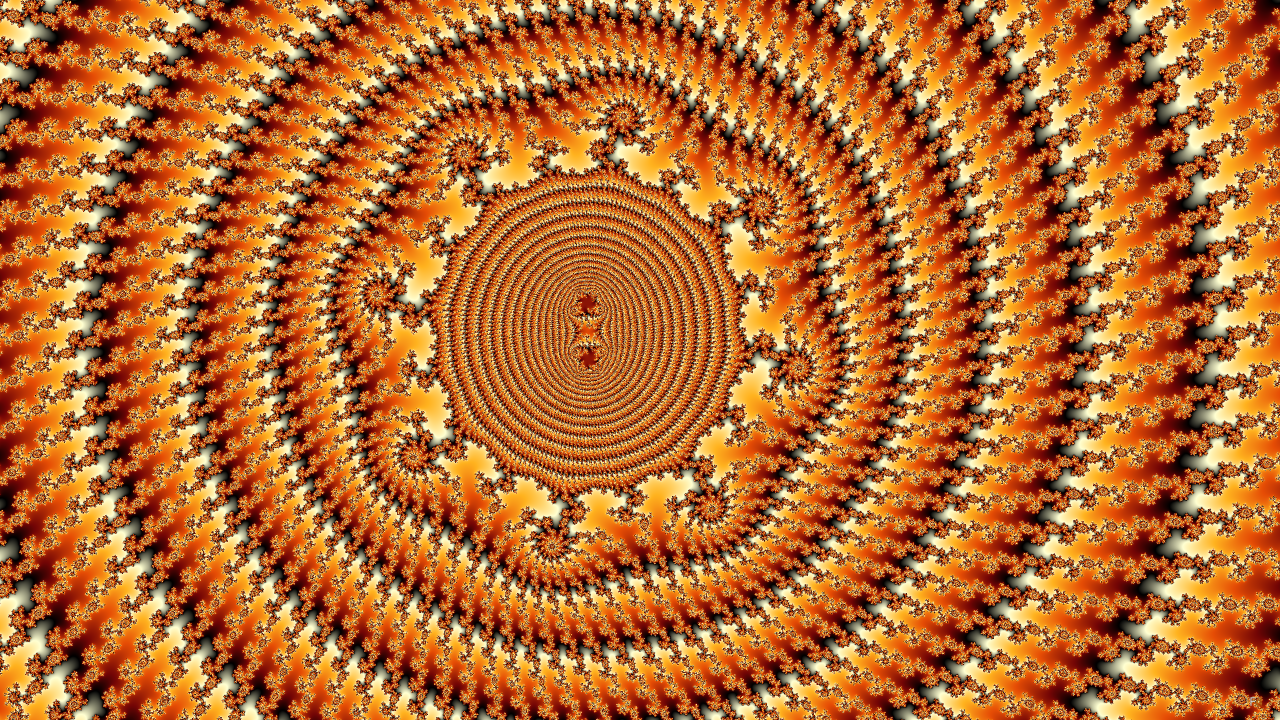
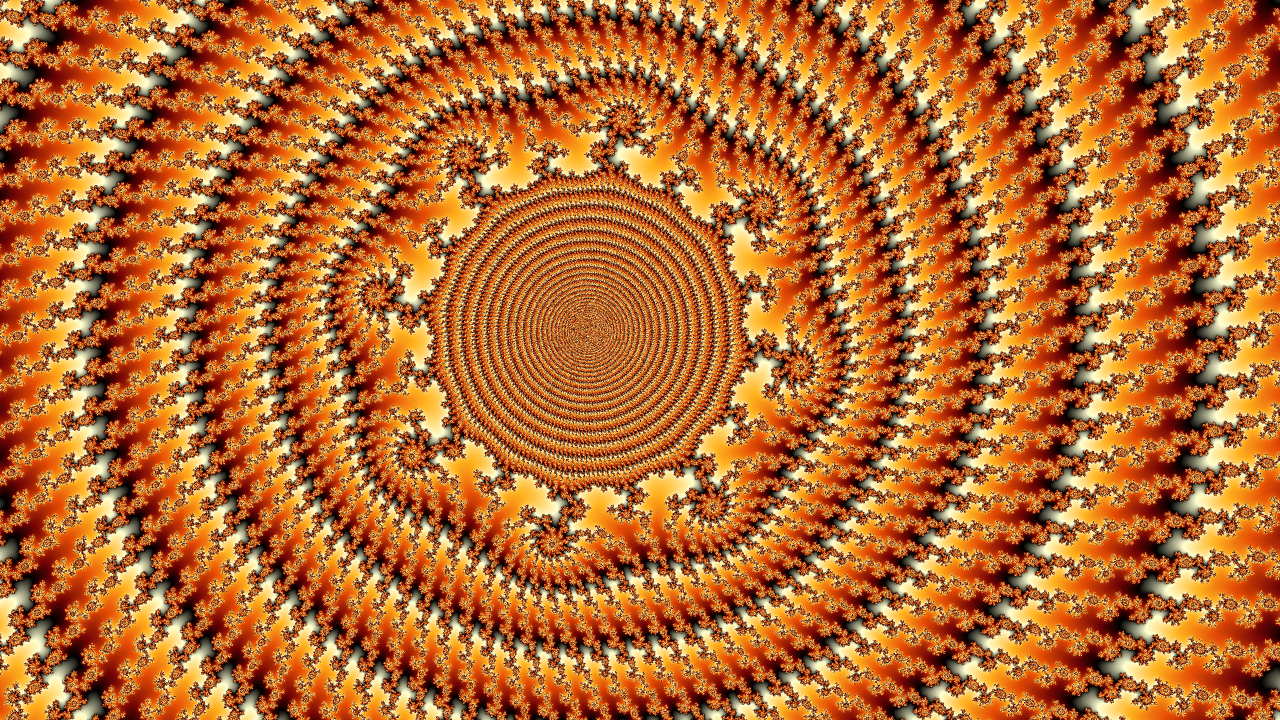
corpus: regenerate all 20 (v0.2.18), fix deep-view aliasing, add --check regression gate
Regenerated the full corpus with v0.2.18 and reviewed every location against its
Fraktaler-3 reference. All 20 match structurally. The v0.2.18 BLA-landing rebase
sharpened the deep-center detail of 11/12/13 (spiral/minibrot cores); 17 locations
are pixel-identical to before.

Deep-view aliasing fix: the deep dendrite/minibrot views (13, 16, 17, 18, 19, 20)
were coloring their smooth exterior field with the fixed palette cycle, which aliases
the correct-but-large escape values into speckle/moire (the same artifact 14/15 had).
Added normalize=true to those 6 and regenerated -> clean smooth fields matching F3.
The spiral views (09-12) have slowly-varying exteriors that don't alias, so they keep
the standard cycle.

New regression gate: `generate_corpus.py --check [--only <slugs>]` re-renders each
location to a temp file and compares it pixel-for-pixel against the committed
(F3-confirmed) renders. Renders are deterministic (verified: re-render = maxD 0), so
an unchanged renderer prints "20/20 MATCH"; any CHANGED location must be eyeballed vs
F3 before re-blessing. Exits non-zero on change; never touches the committed renders.
Intentionally not in the fast --selftest (a 20-location re-render takes minutes).

- generate_corpus.py: check_corpus() + render_location(out_png=...) + --check/--only;
  ASCII-safe report (Windows cp1252). Catalog intro coloring note generalized to 13-20.
- locations.toml: normalize=true on 13,16-20; notes updated; 14's stale "1xSS /
[…]

diff --git a/validation/corpus/catalog.html b/validation/corpus/catalog.html
@@ -32,19 +32,21 @@ former 1e30&times; gap (location 07, once a too-coarse 34-digit seahorse placeho
 different sub-structure) is now a genuine cross-app match, re-imported from a user Fraktaler-3 save with a
 43-digit center. Locations 07 and 11&ndash;20 are user-saved Fraktaler-3 finds (7.5e29&times; to
 1.2e1008&times;), imported from their .exr headers with center, zoom, and iteration count taken verbatim.
-<strong>Coloring note for 14 (1.2e148&times;) and 15 (3.7e163&times;):</strong> these long rendered as
-speckle and were mis-diagnosed as glitches, then a perturbation bug &mdash; both wrong. The escape
-VALUES are correct (a faithful CPU transcription of the mode-2 shader kernel reproduces them exactly);
-the problem is that their smooth-iter counts are huge (~3e5&ndash;1.6e6) and vary steeply, so the fixed
-palette cycle (0.27) aliases a correct field into speckle. Their renders use <em>auto-normalized</em>
-coloring (the frame's escape range mapped to the palette) and then match F3 arm-for-arm. The general
-fix &mdash; an adaptive-cycle coloring mode for extreme depth &mdash; is in TODO.md.
-<strong>15 also needed a rendering fix (v0.2.18):</strong> its right-side dendrites escape at
+<strong>Coloring note for the deep dendrite / minibrot views (13, 14, 15, 16&ndash;20):</strong> at these
+depths the smooth-iter counts are huge (~3e5&ndash;1.6e6+) and vary steeply pixel-to-pixel, so the fixed
+palette cycle (0.27) aliases a correct escape field into speckle (long mis-diagnosed as glitches, then a
+perturbation bug &mdash; both wrong; a faithful CPU transcription of the mode-2 shader kernel reproduces
+the escape VALUES exactly). These renders use <em>auto-normalized</em> coloring (<code>--normalize</code>:
+the frame's escape range mapped to the palette), which colours the smooth exterior cleanly and matches F3
+arm-for-arm. The spiral views (09&ndash;12) have slowly-varying exteriors that don't alias, so they keep
+the standard cycle. The general fix &mdash; an adaptive-cycle coloring mode for the live view &mdash; is in
+TODO.md. <strong>15 also needed a rendering fix (v0.2.18):</strong> its right-side dendrites escape at
 928k&ndash;1.6M &mdash; <em>past</em> the reference orbit (~918k) &mdash; so they must rebase at the
 reference&rsquo;s near-zero orbit dips. The GPU&rsquo;s BLA-skip path was skipping those dips without a
 rebase check (it assumed &delta;z stays small in the BLA regime, which fails where |Z|&asymp;0),
 marching the deep pixels to the reference end and capping them at ~919k so the dendrites vanished. A
-rebase check at the BLA landing restored the full range; goldens stayed byte-identical.</p>
+rebase check at the BLA landing restored the full range (this also sharpened the deep-centre detail of
+11&ndash;13); goldens stayed byte-identical.</p>
 <p><strong>Reading the comparison:</strong> palettes and smooth-coloring curves differ between the apps by
 design &mdash; compare <em>structure</em> (feature placement, spiral arm counts, escape-boundary shape,
 minibrot positions), not colors. Framing note: Fractadyne&rsquo;s magnification is referenced to a
@@ -343,7 +345,7 @@ Iterations: 600000</pre>
 
 <section class="card" id="13-deep-3.7e141">
   <h2>Extreme depth 3.69e141x <span class="zoom">3.690308e141&times;</span></h2>
-  <p class="note">User-saved Fraktaler-3 location (me141.exr); 155-digit center.</p>
+  <p class="note">User-saved Fraktaler-3 location (me141.exr); 155-digit center. Auto-normalized coloring (--normalize): the deep minibrot/dendrite field aliases the fixed palette cycle into speckle, so the escape range is mapped to the palette (see the catalog intro). Renders the central minibrot on a smooth exterior matching F3; the minibrot's deep detail sharpened in v0.2.18 (BLA-landing rebase).</p>
   <div class="pair">
     <figure>
       <img src="renders/13-deep-3.7e141-fractadyne.png" alt="Fractadyne render">
@@ -372,7 +374,7 @@ Iterations: 600000</pre>
 
 <section class="card" id="14-deep-1.2e148">
   <h2>Extreme depth 1.17e148x <span class="zoom">1.166773e148&times;</span></h2>
-  <p class="note">User-saved Fraktaler-3 location (me148.exr); 161-digit center. Escape times measured 304k-582k (CPU perturbation probe), so 800k covers the view (rendered at 1xSS: the ~0.5M-iteration escape band makes 2xSS a multi-hour render); the .exr's saved 6,000,000 was an exploration setting. This location exposed the sub-f32 reference-orbit dip bug (fixed in v0.2.6): its dive path passes within ~1e-71 of zero every 4383 iterations, and the flushed samples re-glued every pixel to the reference past ~1e142x. Renders CORRECTLY and matches F3 arm-for-arm (spiral-dendrite clusters). The earlier 'speckle' was NOT a render bug -- the escape VALUES are correct (verified 2026-07-12: GPU == a faithful CPU df32/df64 Fe transcription, tests/probe_fe.rs), but they are huge (~3e5-8e5) and vary steeply at this dense dendrite field, so the fixed palette cycle (0.27) ALIASED them into speckle. This render maps the frame's escape range to the palette (auto-normalized coloring) -- the correct structure emerges. Broader lesson: the app's fixed-cycle coloring aliases at extreme depth; auto-normalized coloring is the general fix (see TODO).</p>
+  <p class="note">User-saved Fraktaler-3 location (me148.exr); 161-digit center. Escape times measured 304k-582k (CPU perturbation probe), so 800k covers the view (rendered at 2xSS like the rest of the corpus, ~26s via the --normalize tiled path); the .exr's saved 6,000,000 was an exploration setting. This location exposed the sub-f32 reference-orbit dip bug (fixed in v0.2.6): its dive path passes within ~1e-71 of zero every 4383 iterations, and the flushed samples re-glued every pixel to the reference past ~1e142x. Renders CORRECTLY and matches F3 arm-for-arm (spiral-dendrite clusters). The earlier 'speckle' was NOT a render bug -- the escape VALUES are correct (verified 2026-07-12: GPU == a faithful CPU df32/df64 Fe transcription, tests/probe_fe.rs), but they are huge (~3e5-8e5) and vary steeply at this dense dendrite field, so the fixed palette cycle (0.27) ALIASED them into speckle. This render maps the frame's escape range to the palette (auto-normalized coloring) -- the correct structure emerges. Broader lesson: the app's fixed-cycle coloring aliases at extreme depth; auto-normalized coloring is the general fix (see TODO).</p>
   <div class="pair">
     <figure>
       <img src="renders/14-deep-1.2e148-fractadyne.png" alt="Fractadyne render">
@@ -430,7 +432,7 @@ Iterations: 1600000</pre>
 
 <section class="card" id="16-deep-2.1e250">
   <h2>Extreme depth 2.15e250x <span class="zoom">2.147911e250&times;</span></h2>
-  <p class="note">User-saved Fraktaler-3 location (me250.exr); 262-digit center.</p>
+  <p class="note">User-saved Fraktaler-3 location (me250.exr); 262-digit center. Auto-normalized coloring (--normalize): at this depth the smooth-iter counts are ~1e6 and the fixed palette cycle aliases the correct escape field into speckle, so the frame's escape range is mapped to the palette instead (see the catalog intro). Renders the dendrite structure on a clean field, matching F3 arm-for-arm.</p>
   <div class="pair">
     <figure>
       <img src="renders/16-deep-2.1e250-fractadyne.png" alt="Fractadyne render">
@@ -459,7 +461,7 @@ Iterations: 600008</pre>
 
 <section class="card" id="17-deep-4.2e275">
   <h2>Extreme depth 4.15e275x <span class="zoom">4.154612e275&times;</span></h2>
-  <p class="note">User-saved Fraktaler-3 location (me275.exr); 287-digit center.</p>
+  <p class="note">User-saved Fraktaler-3 location (me275.exr); 287-digit center. Auto-normalized coloring (--normalize): at this depth the smooth-iter counts are ~1e6 and the fixed palette cycle aliases the correct escape field into speckle, so the frame's escape range is mapped to the palette instead (see the catalog intro). Renders the dendrite structure on a clean field, matching F3 arm-for-arm.</p>
   <div class="pair">
     <figure>
       <img src="renders/17-deep-4.2e275-fractadyne.png" alt="Fractadyne render">
@@ -517,7 +519,7 @@ Iterations: 150000</pre>
 
 <section class="card" id="18-deep-4.1e508">
   <h2>Extreme depth 4.13e508x <span class="zoom">4.128130e508&times;</span></h2>
-  <p class="note">User-saved Fraktaler-3 location (me508.exr); 520-digit center.</p>
+  <p class="note">User-saved Fraktaler-3 location (me508.exr); 520-digit center. Auto-normalized coloring (--normalize): at this depth the smooth-iter counts are ~1e6 and the fixed palette cycle aliases the correct escape field into speckle, so the frame's escape range is mapped to the palette instead (see the catalog intro). Renders the dendrite structure on a clean field, matching F3 arm-for-arm.</p>
   <div class="pair">
     <figure>
       <img src="renders/18-deep-4.1e508-fractadyne.png" alt="Fractadyne render">
@@ -546,7 +548,7 @@ Iterations: 600008</pre>
 
 <section class="card" id="19-deep-1.3e726">
   <h2>Extreme depth 1.31e726x <span class="zoom">1.313065e726&times;</span></h2>
-  <p class="note">User-saved Fraktaler-3 location (me726.exr); 738-digit center.</p>
+  <p class="note">User-saved Fraktaler-3 location (me726.exr); 738-digit center. Auto-normalized coloring (--normalize): at this depth the smooth-iter counts are ~1e6 and the fixed palette cycle aliases the correct escape field into speckle, so the frame's escape range is mapped to the palette instead (see the catalog intro). Renders the dendrite structure on a clean field, matching F3 arm-for-arm.</p>
   <div class="pair">
     <figure>
       <img src="renders/19-deep-1.3e726-fractadyne.png" alt="Fractadyne render">
@@ -575,7 +577,7 @@ Iterations: 600008</pre>
 
 <section class="card" id="20-deep-1.2e1008">
   <h2>Extreme depth 1.19e1008x <span class="zoom">1.188035e1008&times;</span></h2>
-  <p class="note">User-saved Fraktaler-3 location (me1007.exr); 1020-digit center.</p>
+  <p class="note">User-saved Fraktaler-3 location (me1007.exr); 1020-digit center. Auto-normalized coloring (--normalize): at this depth the smooth-iter counts are ~1e6 and the fixed palette cycle aliases the correct escape field into speckle, so the frame's escape range is mapped to the palette instead (see the catalog intro). Renders the dendrite structure on a clean field, matching F3 arm-for-arm.</p>
   <div class="pair">
     <figure>
       <img src="renders/20-deep-1.2e1008-fractadyne.png" alt="Fractadyne render">

diff --git a/validation/corpus/generate_corpus.py b/validation/corpus/generate_corpus.py
@@ -9,6 +9,15 @@ renders/<slug>-fraktaler.png, produced by generate_fraktaler.py or manually).
 
 Run from the repo root:  python validation/corpus/generate_corpus.py [--skip-renders]
 
+REGRESSION GATE (run after a major change):
+    python validation/corpus/generate_corpus.py --check           # all 20 locations
+    python validation/corpus/generate_corpus.py --check --only 14,15
+  Re-renders each location to a temp file and compares it pixel-for-pixel against the committed
+  renders/<slug>-fractadyne.png (the F3-confirmed baselines). Renders are deterministic, so an
+  unchanged renderer prints "20/20 MATCH"; any CHANGED location must get a fresh visual F3
+  comparison before re-blessing (regenerate + eyeball the catalog). Exits non-zero on any change.
+  Does not modify the committed renders or catalog. See DIAGNOSTICS.md.
+
 The Fractadyne render goes through `--render` with a FULLY staged session (location,
 iterations, coloring), restored afterwards. It must NOT go through the tour renderer:
 render_tour_to_dir forces auto_iter=true, silently re-capping an explicit iteration
@@ -132,7 +141,7 @@ def stage_session(loc):
     open(SESSION, "w", encoding="utf-8", newline="\n").write(t)
 
 
-def render_location(loc):
+def render_location(loc, out_png=None):
     """Render one location via `--render`; returns the output PNG path.
 
     The location goes on the COMMAND LINE (`--center`/`--zoom-log2`/`--iter`): `--render` is a
@@ -141,9 +150,13 @@ def render_location(loc):
     the corpus as twenty copies of the full set). `--zoom-log2` carries arbitrary depth; `--iter`
     is honored verbatim (auto-iter off). The session staging above still pins what has no CLI
     flag: coloring method, DE/lighting, HUD.
+
+    `out_png` overrides the destination (the corpus check renders to a temp file so it never
+    clobbers the committed render it is comparing against).
     """
     import math
-    out_png = os.path.join(CORPUS, "renders", loc["slug"] + "-fractadyne.png")
+    if out_png is None:
+        out_png = os.path.join(CORPUS, "renders", loc["slug"] + "-fractadyne.png")
     stage_session(loc)
     cmd = [
         EXE, "--render", "--out", out_png, "--size", "%dx%d" % (WIDTH, HEIGHT),
@@ -252,19 +265,21 @@ former 1e30&times; gap (location 07, once a too-coarse 34-digit seahorse placeho
 different sub-structure) is now a genuine cross-app match, re-imported from a user Fraktaler-3 save with a
 43-digit center. Locations 07 and 11&ndash;20 are user-saved Fraktaler-3 finds (7.5e29&times; to
 1.2e1008&times;), imported from their .exr headers with center, zoom, and iteration count taken verbatim.
-<strong>Coloring note for 14 (1.2e148&times;) and 15 (3.7e163&times;):</strong> these long rendered as
-speckle and were mis-diagnosed as glitches, then a perturbation bug &mdash; both wrong. The escape
-VALUES are correct (a faithful CPU transcription of the mode-2 shader kernel reproduces them exactly);
-the problem is that their smooth-iter counts are huge (~3e5&ndash;1.6e6) and vary steeply, so the fixed
-palette cycle (0.27) aliases a correct field into speckle. Their renders use <em>auto-normalized</em>
-coloring (the frame's escape range mapped to the palette) and then match F3 arm-for-arm. The general
-fix &mdash; an adaptive-cycle coloring mode for extreme depth &mdash; is in TODO.md.
-<strong>15 also needed a rendering fix (v0.2.18):</strong> its right-side dendrites escape at
+<strong>Coloring note for the deep dendrite / minibrot views (13, 14, 15, 16&ndash;20):</strong> at these
+depths the smooth-iter counts are huge (~3e5&ndash;1.6e6+) and vary steeply pixel-to-pixel, so the fixed
+palette cycle (0.27) aliases a correct escape field into speckle (long mis-diagnosed as glitches, then a
+perturbation bug &mdash; both wrong; a faithful CPU transcription of the mode-2 shader kernel reproduces
+the escape VALUES exactly). These renders use <em>auto-normalized</em> coloring (<code>--normalize</code>:
+the frame's escape range mapped to the palette), which colours the smooth exterior cleanly and matches F3
+arm-for-arm. The spiral views (09&ndash;12) have slowly-varying exteriors that don't alias, so they keep
+the standard cycle. The general fix &mdash; an adaptive-cycle coloring mode for the live view &mdash; is in
+TODO.md. <strong>15 also needed a rendering fix (v0.2.18):</strong> its right-side dendrites escape at
 928k&ndash;1.6M &mdash; <em>past</em> the reference orbit (~918k) &mdash; so they must rebase at the
 reference&rsquo;s near-zero orbit dips. The GPU&rsquo;s BLA-skip path was skipping those dips without a
 rebase check (it assumed &delta;z stays small in the BLA regime, which fails where |Z|&asymp;0),
 marching the deep pixels to the reference end and capping them at ~919k so the dendrites vanished. A
-rebase check at the BLA landing restored the full range; goldens stayed byte-identical.</p>
+rebase check at the BLA landing restored the full range (this also sharpened the deep-centre detail of
+11&ndash;13); goldens stayed byte-identical.</p>
 <p><strong>Reading the comparison:</strong> palettes and smooth-coloring curves differ between the apps by
 design &mdash; compare <em>structure</em> (feature placement, spiral arm counts, escape-boundary shape,
 minibrot positions), not colors. Framing note: Fractadyne&rsquo;s magnification is referenced to a
@@ -275,7 +290,76 @@ zoom value slightly wider &mdash; the <em>center</em> feature and structure must
     open(os.path.join(CORPUS, "catalog.html"), "w", encoding="utf-8", newline="\n").write(html)
 
 
+def _img_rgb(path):
+    """Decode a PNG to an int32 H×W×3 array (stdlib PIL/numpy — both ship with the dev env)."""
+    from PIL import Image
+    import numpy as np
+    return np.asarray(Image.open(path).convert("RGB"), dtype=np.int32)
+
+
+def check_corpus(locs, only=None):
+    """REGRESSION GATE — run after a major change: re-render every location to a temp file and
+    compare it PIXEL-FOR-PIXEL against the committed renders/<slug>-fractadyne.png, which were
+    visually confirmed to match the Fraktaler-3 references. Renders are deterministic (same
+    pipeline ⇒ byte-identical, like the --selftest goldens), so an unchanged renderer gives
+    maxΔ 0 for every location; any CHANGED location must get a fresh visual F3 comparison before
+    re-blessing. Does NOT touch the committed renders or catalog.html.
+
+    `only` = list of slug prefixes to check a subset (e.g. ["14", "15"]). Returns True iff every
+    checked location matched. Exit code is wired from this in main()."""
+    import numpy as np
+    import tempfile
+    if only:
+        locs = [l for l in locs if any(l["slug"].startswith(o) for o in only)]
+        if not locs:
+            sys.exit("no locations match --only %s" % only)
+    if not os.path.exists(EXE):
+        sys.exit("build first: cargo build --release -p fractadyne-app")
+    backup = SESSION + ".checkbak"
+    shutil.copyfile(SESSION, backup)
+    tmpdir = tempfile.mkdtemp(prefix="fdcorpus_")
+    results = []
+    try:
+        for loc in locs:
+            slug = loc["slug"]
+            committed = os.path.join(CORPUS, "renders", slug + "-fractadyne.png")
+            if not os.path.exists(committed):
+                results.append((slug, "MISSING", "no committed render to compare against"))
+                continue
+            print("checking %s ..." % slug, flush=True)
+            tmp = os.path.join(tmpdir, slug + ".png")
+            render_location(loc, out_png=tmp)
+            a, b = _img_rgb(committed), _img_rgb(tmp)
+            if a.shape != b.shape:
+                results.append((slug, "SIZE", "shape %s vs committed %s" % (b.shape, a.shape)))
+                continue
+            d = np.abs(a - b)
+            maxd, meand, std = int(d.max()), float(d.mean()), float(b.std())
+            blank = " BLANK?" if std < 1.0 else ""  # near-uniform frame -> suspect (defensive)
+            status = "MATCH" if maxd == 0 else "CHANGED"
+            results.append((slug, status, "maxD %d meanD %.2f std %.1f%s" % (maxd, meand, std, blank)))
+    finally:
+        shutil.copyfile(backup, SESSION)
+        os.remove(backup)
+        shutil.rmtree(tmpdir, ignore_errors=True)
+        print("session restored")
+    ok = sum(1 for _, s, _ in results if s == "MATCH")
+    print("\ncorpus check -- re-render vs committed (F3-confirmed) renders, %dx%d %dxSS:" % (WIDTH, HEIGHT, SS))
+    for slug, status, detail in results:
+        flag = "" if status == "MATCH" else "   <-- REVIEW vs F3"
+        print("  %-22s %-8s %s%s" % (slug, status, detail, flag))
+    verdict = ("unchanged (still matches F3)" if ok == len(results)
+               else "CHANGED -- review the flagged locations against their F3 reference")
+    print("\n%d/%d MATCH -- corpus %s" % (ok, len(results), verdict))
+    return ok == len(results)
+
+
 def main():
+    if "--check" in sys.argv:
+        only = None
+        if "--only" in sys.argv:
+            only = sys.argv[sys.argv.index("--only") + 1].split(",")
+        sys.exit(0 if check_corpus(read_locations(), only) else 1)
     skip_renders = "--skip-renders" in sys.argv
     locs = read_locations()
     for loc in locs:

diff --git a/validation/corpus/README.md b/validation/corpus/README.md
@@ -26,6 +26,24 @@ python validation/corpus/generate_corpus.py            # everything
 python validation/corpus/generate_corpus.py --skip-renders   # just .kfr + catalog
 ```
 
+## Checking for regressions (`--check`)
+
+Run this after any change that could affect the renderer (a major update, a shader edit) to confirm
+the corpus still matches the committed, F3-confirmed renders:
+
+```
+python validation/corpus/generate_corpus.py --check            # all 20 locations
+python validation/corpus/generate_corpus.py --check --only 14,15
+```
+
+It re-renders each location to a temp file and compares it **pixel-for-pixel** against the committed
+`renders/<slug>-fractadyne.png`. The renderer is deterministic (same pipeline ⇒ byte-identical pixels,
+like the `--selftest` goldens), so an unchanged renderer prints `20/20 MATCH`; any `CHANGED` location
+must be eyeballed against its F3 reference (regenerate, then open `catalog.html`) before it is
+re-committed. The check exits non-zero on any change and never modifies the committed renders or
+catalog. It is intentionally **not** part of the fast `--selftest` — a full 20-location re-render takes
+minutes (the deep locations dominate), so it is an on-demand gate.
+
 Renders go through `--render` with a fully staged session per location — exact center strings +
 magnification, the location's verbatim iteration count (auto-scale off; `--render` honors an
 explicit count, unlike the tour renderer, which forces auto-iteration and silently re-caps it),
@@ -78,18 +96,26 @@ still stands — the plainest proof being that 08 (83-digit center), 09 (526-dig
 all render and match *far* deeper. The `.f3.toml` / `.kfr` params are written for all twenty, and
 Fractadyne renders all twenty.
 
-**14 (1.2e148×) and 15 (3.7e163×) — a coloring note.** For a long time these two rendered as
-per-pixel **speckle** and were wrongly diagnosed (in turn) as glitches, then as a perturbation-accuracy
-bug. Both were wrong. The escape **values are correct** — verified 2026-07-12 by a faithful CPU
-transcription of the exact mode-2 shader kernel (df/Cdf/Fe Dekker–Knuth arithmetic, shared exponent,
-Zhuoran rebasing; `fractadyne-core/tests/probe_fe.rs`), which reproduces the GPU's smooth-iter values
-(df32 == df64 == GPU). The problem is **coloring**: at this depth the smooth-iter counts are huge
-(~3e5–9e5) and, at these dense dendrite fields, vary steeply pixel-to-pixel, so the fixed palette
-`cycle` (0.27) turns a correct escape field into aliased speckle. These two renders therefore use
-**auto-normalized coloring** — the frame's escape range mapped to the palette — and then match F3's
-structure arm-for-arm (spiral-dendrite clusters at 14; the bulb boundary at 15). Broader lesson: the
-app's fixed-cycle smooth coloring aliases at extreme depth; an auto-normalize / adaptive-cycle coloring
-mode is the general fix (TODO.md).
+**Deep dendrite / minibrot views (13, 14, 15, 16–20) — a coloring note, and one render fix.** For a
+long time 14/15 rendered as per-pixel **speckle** and were wrongly diagnosed (in turn) as glitches, then
+as a perturbation-accuracy bug. Both were wrong. The escape **values are correct** — verified by a
+faithful CPU transcription of the exact mode-2 shader kernel (df/Cdf/Fe Dekker–Knuth arithmetic, shared
+exponent, Zhuoran rebasing; `fractadyne-core/tests/probe_fe.rs`), which reproduces the GPU's smooth-iter
+values (df32 == df64 == GPU). The problem is **coloring**: at these depths the smooth-iter counts are
+huge (~3e5–1.6e6) and, at dense dendrite/minibrot fields, vary steeply pixel-to-pixel, so the fixed
+palette `cycle` (0.27) turns a correct escape field into aliased speckle. All the deep views with a
+rapidly-varying exterior (**13, 14, 15, 16–20**) therefore use **auto-normalized coloring**
+(`--normalize` — the frame's escape range mapped to the palette) and then match F3 arm-for-arm; the
+spiral views **09–12** have slowly-varying exteriors that don't alias, so they keep the standard cycle.
+
+**15 additionally needed a real render fix (v0.2.18).** Its right-side dendrites escape at 928k–1.6M —
+*past* the reference orbit (~918k) — so they must rebase at the reference's near-zero orbit dips. The
+GPU's BLA iteration-skip path was skipping those dips *without* a Zhuoran rebase check (it assumed δz
+stays small in the BLA regime, which fails where |Z|≈0 ⇒ |z|≈|δz|), marching the deep pixels to the
+reference end and capping them at ~919k so the dendrites vanished. A rebase check at the BLA landing
+restored the full range (and sharpened the deep-center detail of 11–13); `--selftest` goldens stayed
+byte-identical. Broader lesson: the app's fixed-cycle smooth coloring aliases at extreme depth; an
+auto-normalize / adaptive-cycle coloring mode for the live view is the general fix (TODO.md).
 
 ## Reading the comparison
 
